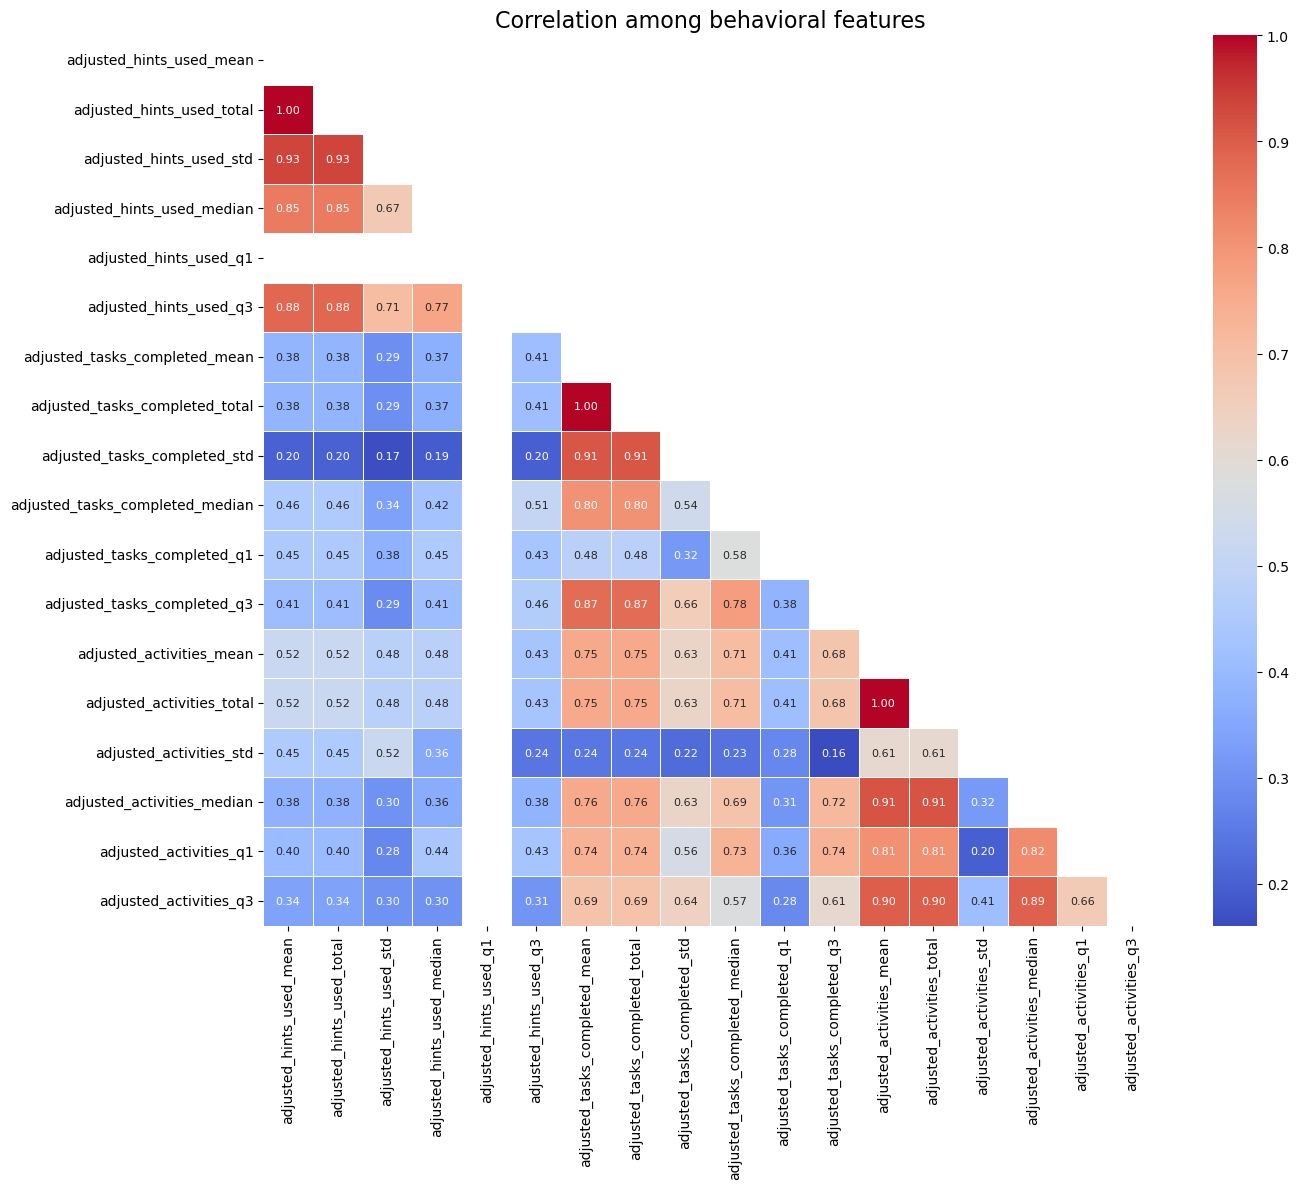
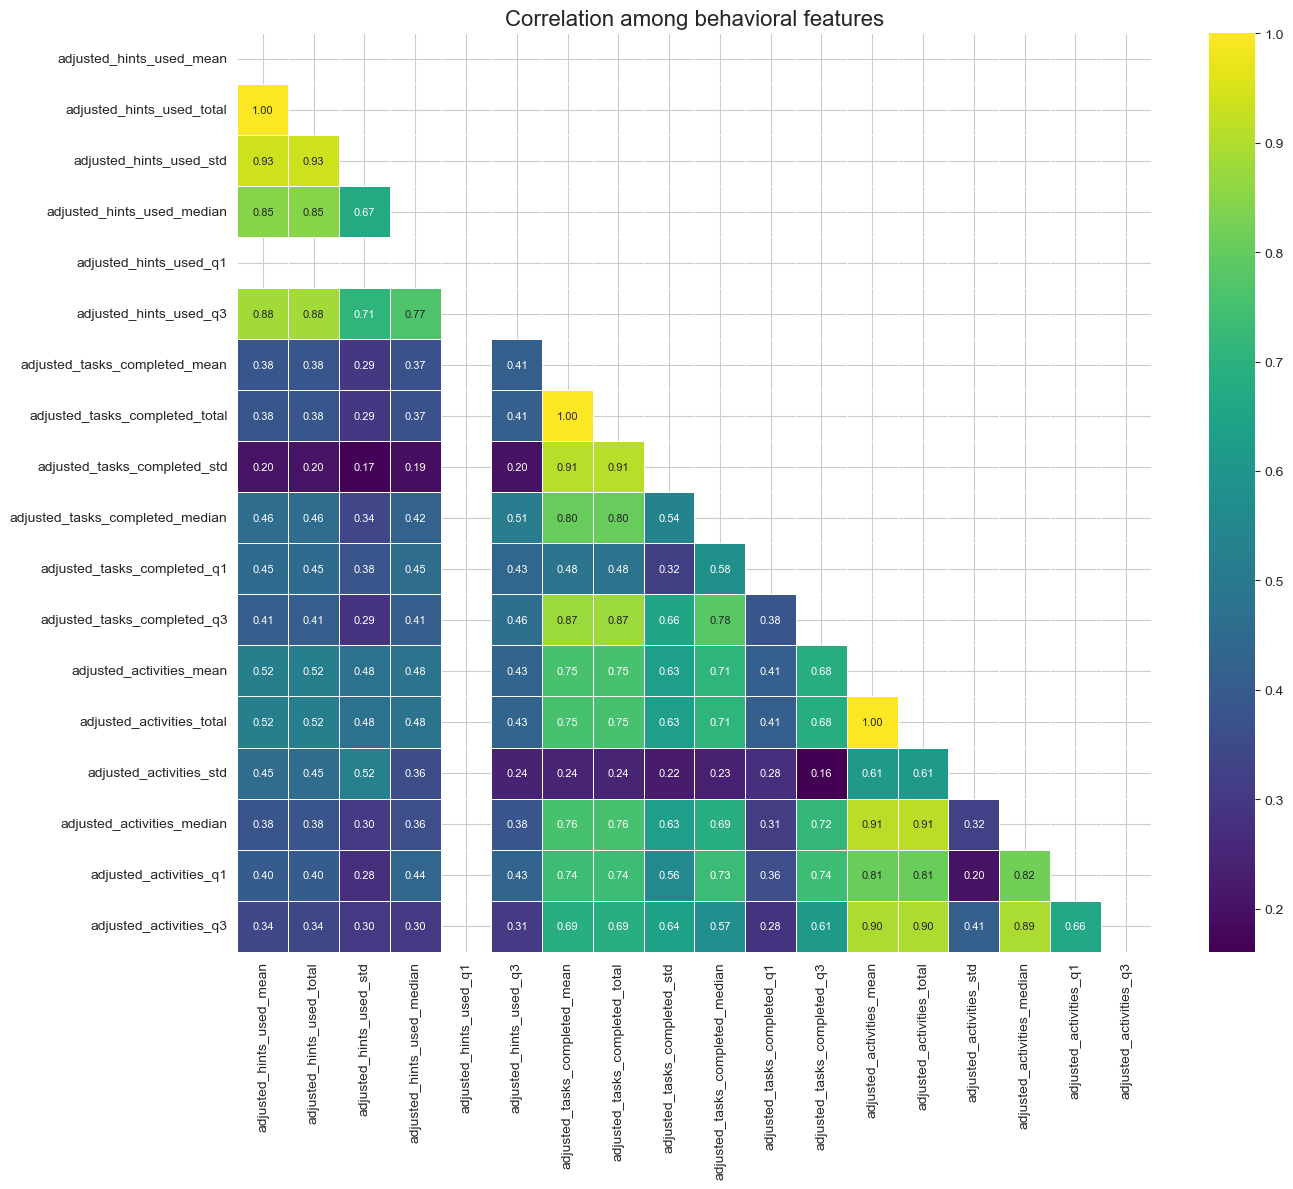
Add files via upload

diff --git a/docs/posts/analysis.html b/docs/posts/analysis.html
@@ -249,7 +249,7 @@ pre > code.sourceCode > span > a:first-child::before { text-decoration: underlin
 <section id="removing-correlated-behavioral-features" class="level2">
 <h2 class="anchored" data-anchor-id="removing-correlated-behavioral-features">Removing correlated behavioral features</h2>
 <p><a href="#fig-correlated" class="quarto-xref">Figure&nbsp;1</a> displays correlation among behavioral features. We will <strong>remove one from each pair of behavioral features having correation &gt; .90</strong>.</p>
-<div id="cell-fig-correlated" class="cell" data-execution_count="59">
+<div id="cell-fig-correlated" class="cell" data-execution_count="98">
 <details class="code-fold">
 <summary>Code</summary>
 <div class="sourceCode cell-code" id="cb2"><pre class="sourceCode numberSource python number-lines code-with-copy"><code class="sourceCode python"><span id="cb2-1"><a href="#cb2-1"></a><span class="im">import</span> pandas <span class="im">as</span> pd</span>
@@ -285,7 +285,7 @@ pre > code.sourceCode > span > a:first-child::before { text-decoration: underlin
 <span id="cb2-31"><a href="#cb2-31"></a>plt.figure(figsize<span class="op">=</span>(<span class="dv">14</span>, <span class="dv">12</span>))</span>
 <span id="cb2-32"><a href="#cb2-32"></a>plt.title(<span class="st">"Correlation among behavioral features"</span>, fontsize<span class="op">=</span><span class="dv">16</span>)</span>
 <span id="cb2-33"><a href="#cb2-33"></a><span class="co"># Include the correlation values in the heatmap</span></span>
-<span id="cb2-34"><a href="#cb2-34"></a>sns.heatmap(correlation_matrix, annot<span class="op">=</span><span class="va">True</span>, cmap<span class="op">=</span><span class="st">'coolwarm'</span>, mask<span class="op">=</span>mask, </span>
+<span id="cb2-34"><a href="#cb2-34"></a>sns.heatmap(correlation_matrix, annot<span class="op">=</span><span class="va">True</span>, cmap<span class="op">=</span><span class="st">'viridis'</span>, mask<span class="op">=</span>mask, </span>
 <span id="cb2-35"><a href="#cb2-35"></a>            fmt<span class="op">=</span><span class="st">'.2f'</span>, annot_kws<span class="op">=</span>{<span class="st">"size"</span>: <span class="dv">8</span>}, linewidths<span class="op">=</span><span class="fl">0.5</span>)</span>
 <span id="cb2-36"><a href="#cb2-36"></a>plt.tight_layout()</span>
 <span id="cb2-37"><a href="#cb2-37"></a>plt.show()</span></code><button title="Copy to Clipboard" class="code-copy-button"><i class="bi"></i></button></pre></div>
